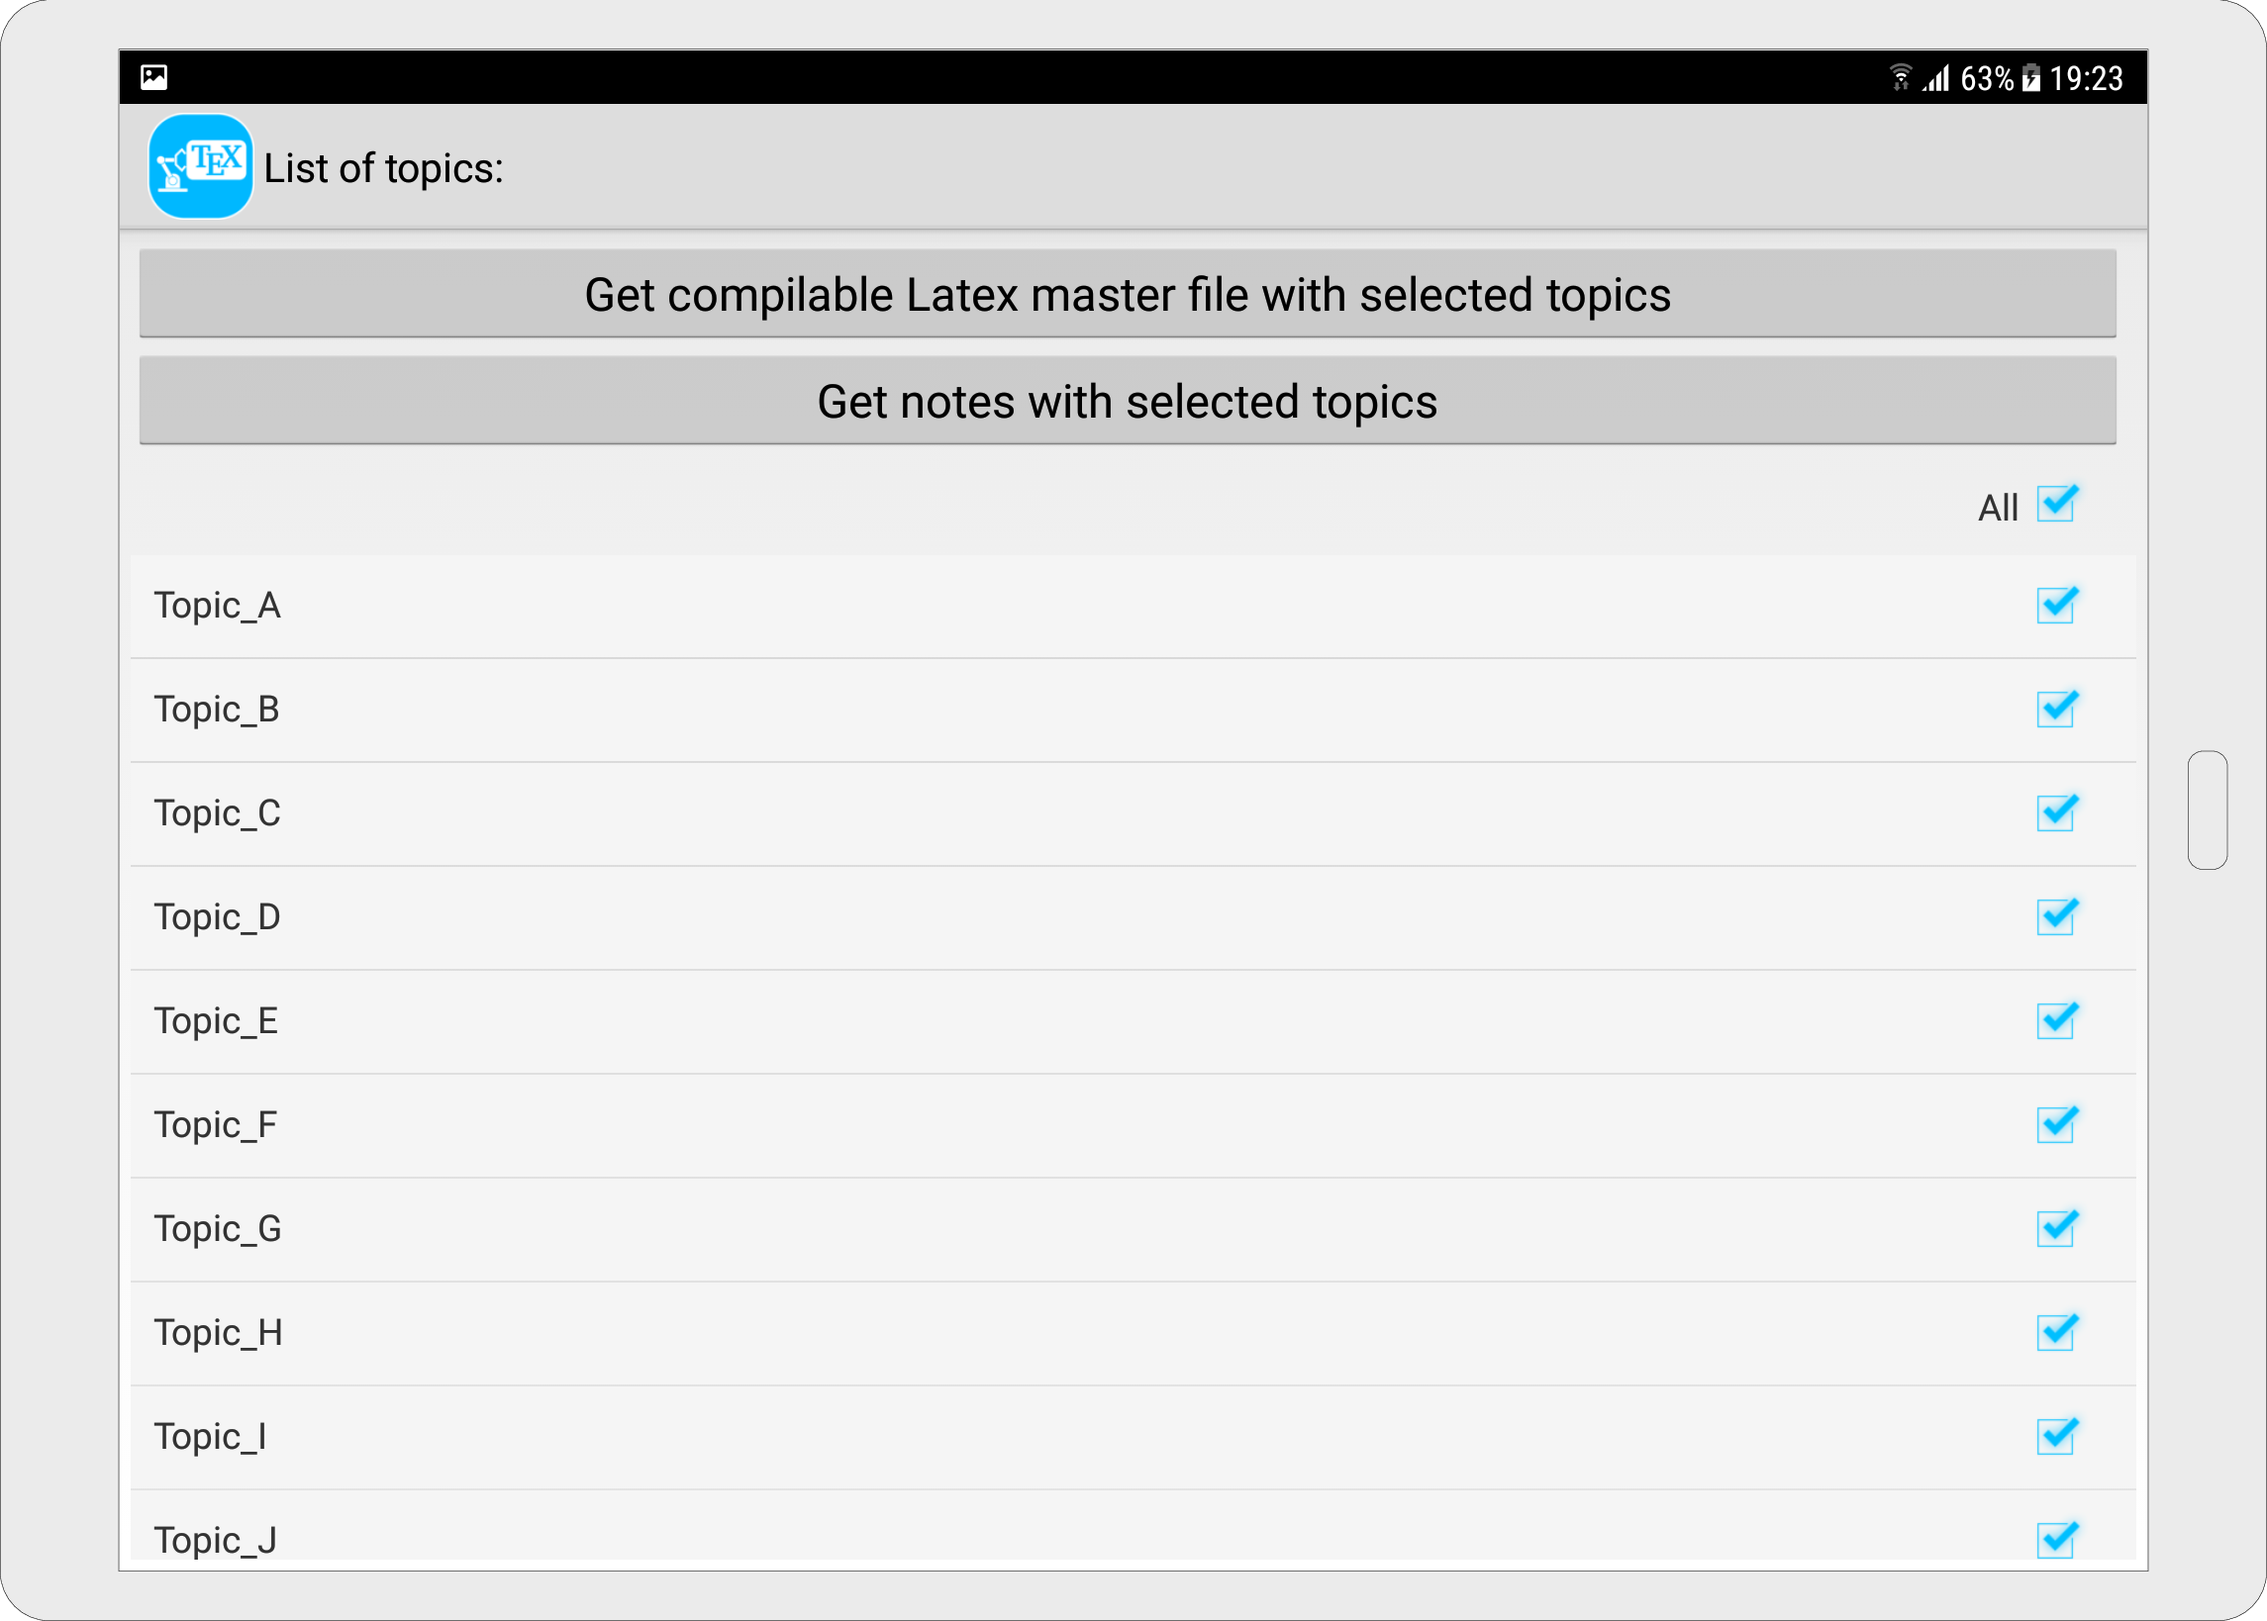
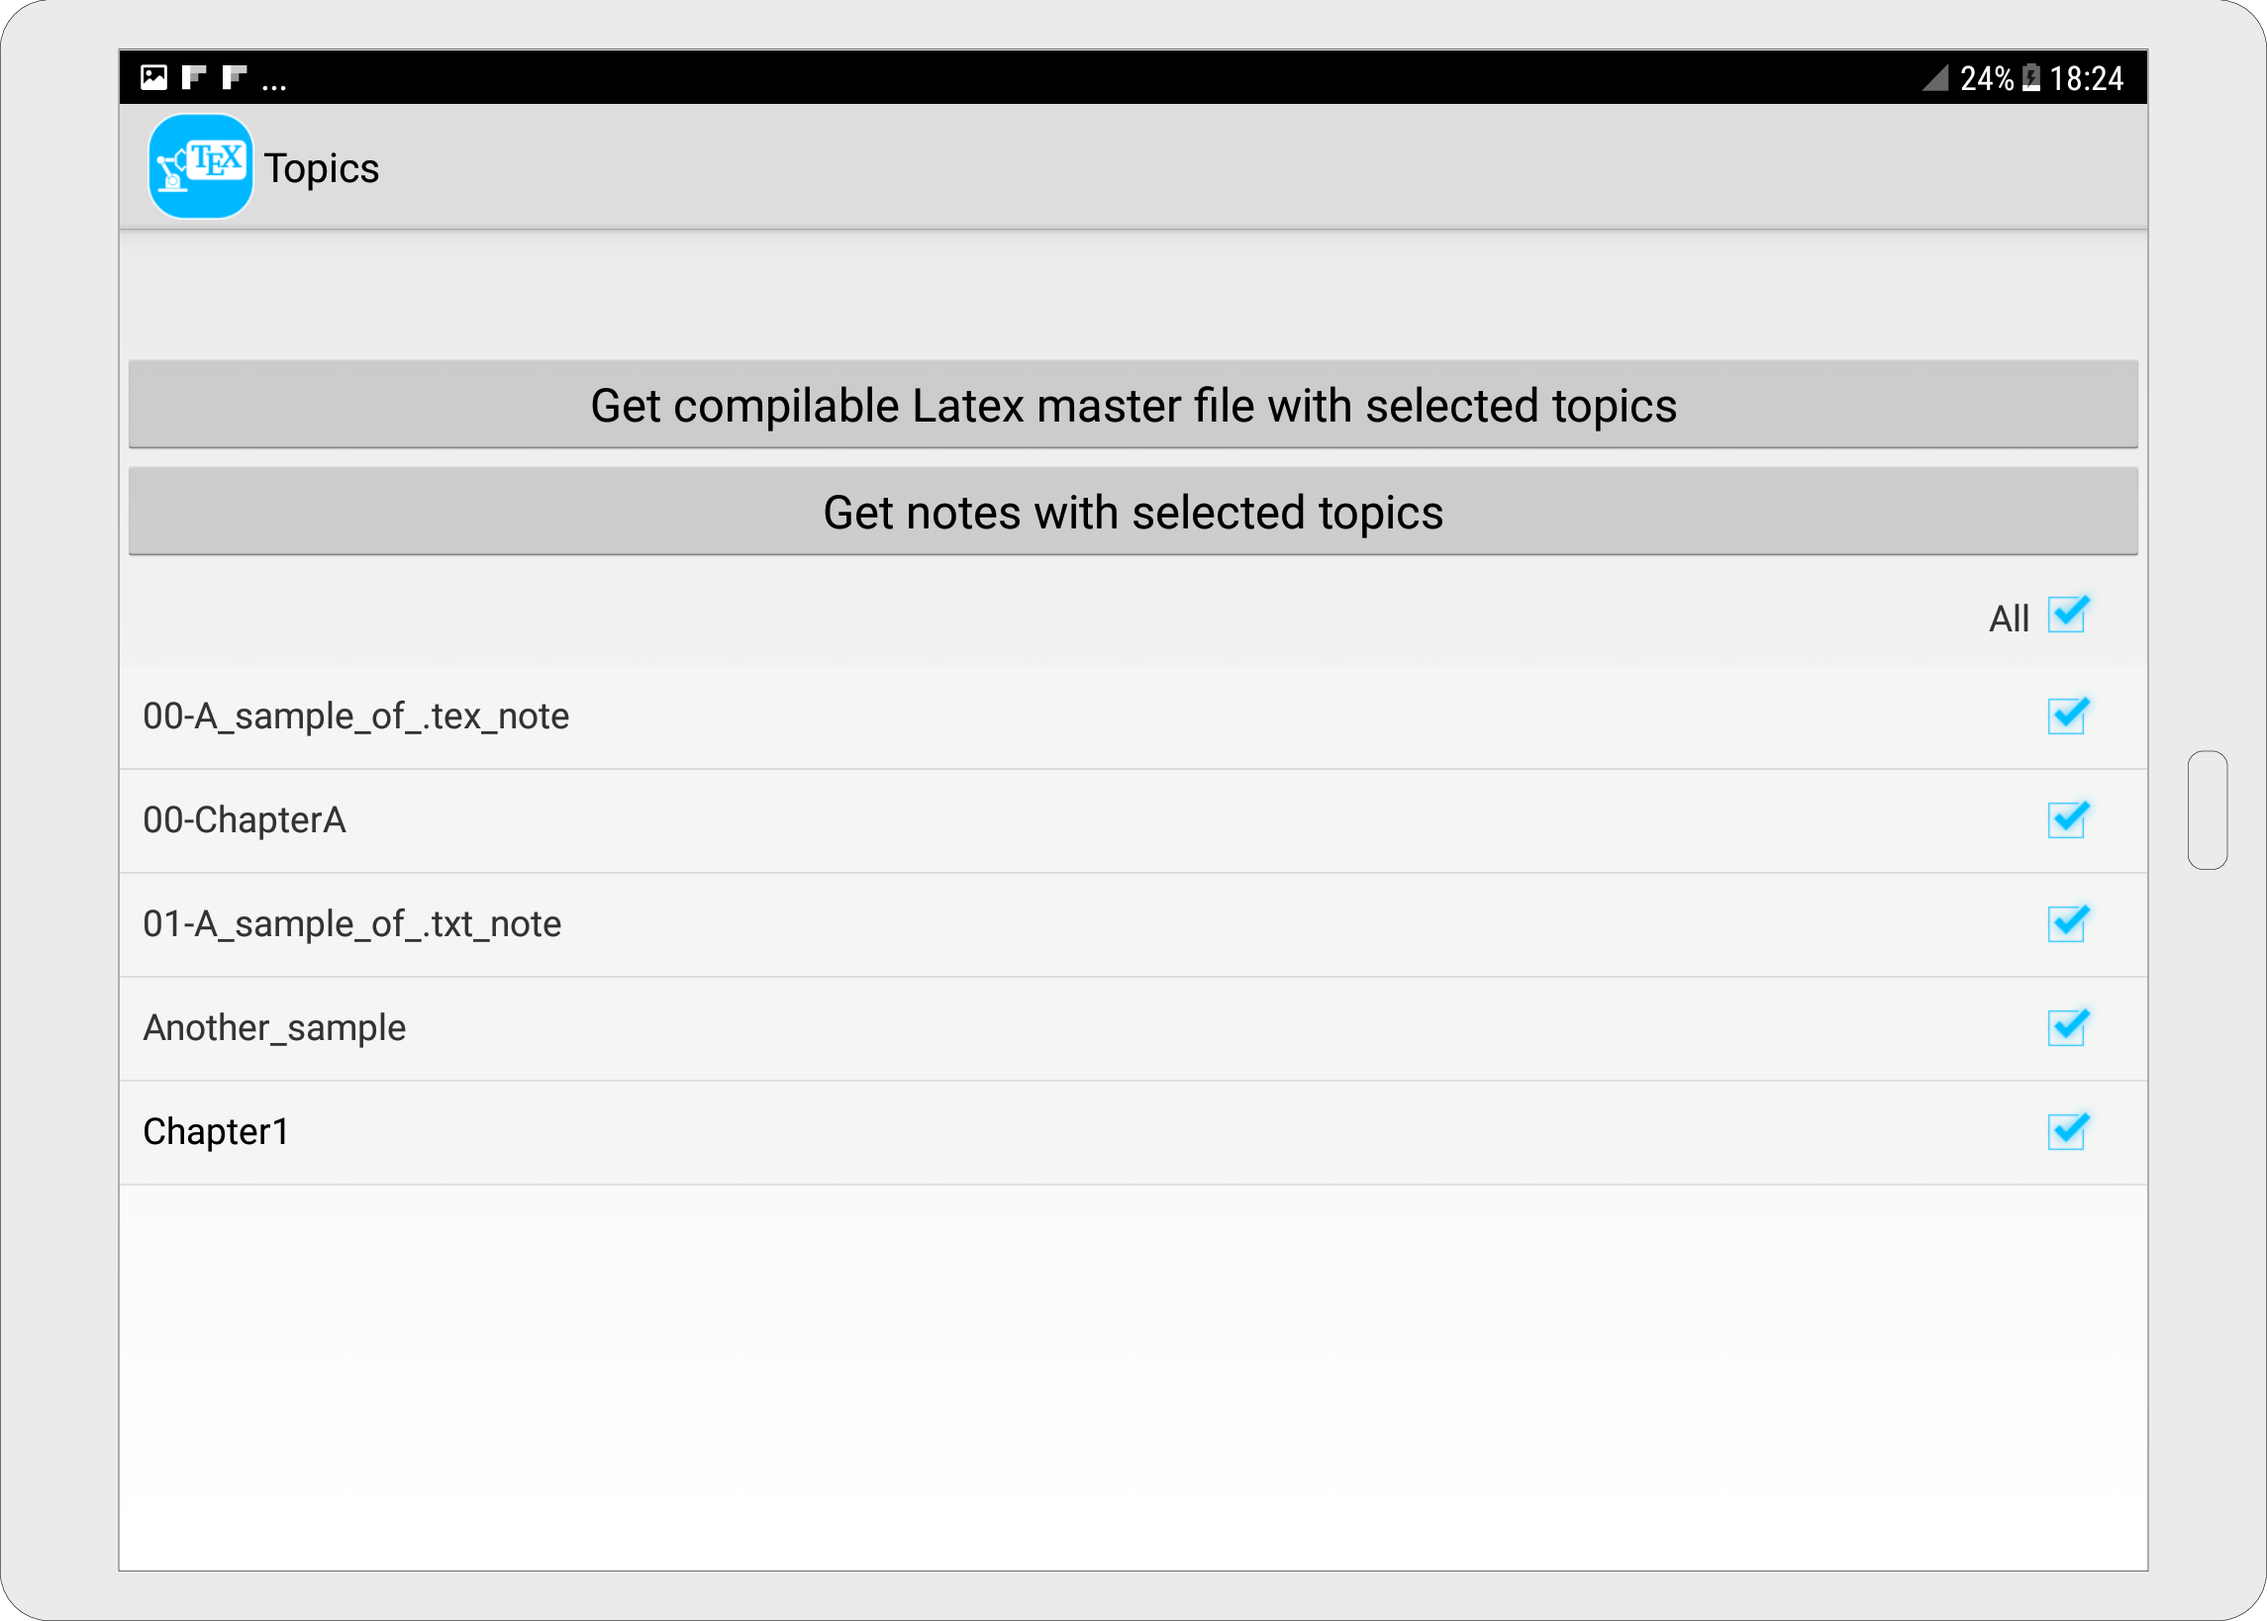
Updated index.html and screenshot

diff --git a/index.html b/index.html
@@ -31,76 +31,74 @@
       <!-- -------------------------------------------------------- -->
       <!-- -------------------------------------------------------- -->
 <!------------------------------------------------------------------------------------>      
-      <h2>Description</h2>
-      <p><strong>LaTeX Master File Creator</strong> is an <strong>Android App</strong> that allows to manage your .tex files and your plain text notes by choosing, through a simple UI, the items to include in an automatically generated LaTeX master file with a predefined style.</p>
+      <h1>Description</h1>
+      <p><strong>LaTeX Master File Creator</strong> is an <strong>Android App</strong> that allows to manage .tex files and plain text notes by choosing, through a simple UI, the items to include in an automatically generated LaTeX master file with a predefined style.</p> <p>Thus you can obtain a .pdf file, containing the selected items, by means of your preferred LaTeX App (with pdflatex) directly on your Android device.</p>
 <p> <a href='https://play.google.com/store/apps/details?id=com.ariang.android.txts2tex&pcampaignid=MKT-Other-global-all-co-prtnr-py-PartBadge-Mar2515-1'><img  alt='Get it on Google Play' src="./images/google-play-badge.png"/></a></p>
        
-     <h2>Main Activity</h2>   
-<p>From NotesList activity, as shown in fig.<a href="#x1-1011r1">1<!--tex4ht:ref: fig:7NotesList --></a>, you can start the other activities through the options menu: </p>
-     <ul class="itemize1">
-     <li class="itemize">1.Settings
-     </li>
-     <li class="itemize">2.Import notes
-     </li>
-     <li class="itemize">3.Get topics
-     </li>
-     <li class="itemize">4.New txt
-     </li>
-     <li class="itemize">5.New tex
-     </li>
-     <li class="itemize">6.Delete</li></ul>       
+     <h1>Main Activity</h1>   
+<p>From the main activity, as shown in fig.<a href="#x1-1011r1">1<!--tex4ht:ref: fig:7NotesList --></a>, you can start the other activities through the options menu.</p>  
 <figure>
   <a id="x1-1011r1">
   <img src="./images/Screenshot_7NotesList.png" alt="NotesList Activity">
-  <figcaption>Fig.1 NotesList Activity</figcaption>
+  <figcaption>Fig.1 Main Activity</figcaption>
   </a>
 </figure>  
 <!------------------------------------------------------------------------------------>      
    <h2>User Defined Settings</h2>
-   <p>By clicking on <code>1.Settings</code> you can modify the default Filename of LaTeX master file and the document properties (Title, Author, Subject and Keywords).</p>
+   <p>By clicking on <code>Settings</code> you can modify the default <code>Filename</code> of the LaTeX master file and its document properties (<code>Title</code>, <code>Author</code>, <code>Subject</code> and <code>Keywords</code>).</p>
 <!------------------------------------------------------------------------------------> 
    <h2>Import Notes</h2>
-   <p>By clicking on <code>2.Import notes</code> you can import .txt and/or .tex files from the input
-directory: <code>/sdcard/Txt2TexINPUT/</code>.</p>
+   <p>By clicking on <code>Import notes</code> you can import .txt and/or .tex files from the directory:</p>  
+   <code>/sdcard/Txt2TexINPUT/</code>
 <!------------------------------------------------------------------------------------>  
 <h2>Get Topics</h2>
-<p>From <code>3.Get Topics</code> you get the list of all topics, in which, as shown in fig.<a 
+<p>From <code>Get Topics</code> you get the list of all topics, in which, as shown in fig.<a 
 href="#x1-3001r4">2<!--tex4ht:ref: fig:IssueZeroList --></a>, you can select them and through the button <code>Get
-compilable LaTeX master file with selected topics</code> create the output directory
-<code>/sdcard/Txt2TexOUTPUT/YYYYMMdd_hhmmss/</code> with an automatically generated LaTeX master file (look at <a href="#myoutput">Outputs</a> for more details).
+compilable LaTeX master file with selected topics</code> create the output directory:</p> 
+<code>/sdcard/Txt2TexOUTPUT/FilenameYYYYMMdd_hhmmss/</code> 
+<p>with an automatically generated LaTeX master file (look at <a href="#myoutput">Outputs</a> for more details).
 <!--l. 207--><p>By using the button <code>Get notes with selected topics</code> you get the list of the files
 with the chosen topics.</p>   
 <figure>
    <a id="x1-3001r4">
    <img src="./images/Screenshot_3IssueZeroList.png" alt="List of topics">
-   <figcaption>Fig.2: List of topics</figcaption>
+   <figcaption>Fig.2: Topics</figcaption>
   </a>
 </figure> 
 <!------------------------------------------------------------------------------------> 
 <h2>Internal text editor</h2>
-<p>From the main activity NotesList you can also click one of the items to edit them with an internal text editor, and by clicking on <code>4.New txt</code> and <code>5.New tex</code> you can add new .txt and .tex notes. </p>
+<p>From the main activity you can also click one of the items to edit them with an internal text editor, and by clicking on <code>New txt</code> and <code>New tex</code> you can add new .txt and .tex notes. </p>
 <!------------------------------------------------------------------------------------>
 <h2>Delete</h2>
-<p>By clicking on <code>6.Delete</code> you can select the notes to delete from the application database.</p>
+<p>By clicking on <code>Delete</code> you can select the notes to delete from the application database.</p>
 <!------------------------------------------------------------------------------------> 
-<h2>Input</h2>
-<h3>Imported Notes</h3>
+<h1>Inputs</h1>
+<h2>Imported Notes</h2>
 <p>Imported notes should be in UTF-8 encoding.</p> 
-   <h3>Title with empty spaces </h3>
+<h2>Filenames of .txt notes </h2>
+<p>The .txt notes are included in the master file according to their filenames, for example <code>01-A_sample_of_.txt_note.txt</code>:</p> 
+ <pre><code>\chapter{A sample of .txt note}
+\VerbatimInput{\detokenize{./FILES/01-A_sample_of_.txt_note.txt}}</code> </pre>
+<h2>Filenames of .tex files </h2>
+<p>Even the .tex files are included in the master file according to their filenames, for example <code>00-A_sample_of_.tex_note.tex</code>:</p> 
+<pre><code>\chapter{A sample of .tex note}
+\input{\detokenize{./FILES/00-A_sample_of_.tex_note.tex}}</code> </pre>
+but if you want to put the title of the chapter within the .tex note, you have to put the string "Chapter" in the filename of the .tex note, for example <code>Chapter1.tex</code>:</p>  
+<code>\input{./FILES/Chapter1.tex}</code>
+<h2>Title with empty spaces </h2>
 <p>
-To obtain empty spaces in the title of a section in the LaTeX master file you have to put an underscore &#8220;_&#8221; in the
-filename of the note (e.g. <em>Example_of_a_Section_Title.txt</em>).  
+To obtain empty spaces in the title of a chapter in the LaTeX master file you have to put an underscore &#8220;_&#8221; in the
+filename of the note (e.g. <code>A_sample_of_.txt_note.txt</code>).  
 </p> 
-<h3>Alphabetical or user defined order of notes</h3>
+<h2>Alphabetical or user defined order of notes</h2>
 <p>
-By default the notes (.txt and/or .tex) are inserted in a compilable Latex master file according to alphabetical order, but you can add numeric indexes, followed by a minus sign &#8220-&#8221;, at the beginning of the filename to get a different order 
-(e.g. <em>01-Topic_Z.txt</em>).</p> 
-<h3>Inserting images in .tex notes</h3>
-<p>You can insert images in .tex notes from the directory
+By default the notes (.txt and/or .tex) are inserted in the master file according to alphabetical order, but you can add numeric indexes, followed by a minus sign &#8220-&#8221;, at the beginning of the filename to get a different order 
+(e.g. <code>01-A_sample_of_.txt_note.txt</code>, <code>00-ChapterA.tex</code>).</p> 
+<h2>Inserting images in .tex notes</h2>
+<p>You can insert images in .tex notes from the directory:</p> 
 <code>/sdcard/Txt2TexINPUT/IMAGES/</code>.
-</p> 
-<h2>Output</h2><a id="myoutput"></a>
-<p>The output directory <code>/sdcard/Txt2TexOUTPUT/YYYYMMdd_hhmmss/</code> (within the DeviceStorage) contains:
+<h1>Output</h1><a id="myoutput"></a>
+<p>The output directory <code>/sdcard/Txt2TexOUTPUT/FilenameYYYYMMdd_hhmmss/</code> (within the DeviceStorage) contains:
      <ul>
      <li>a LaTeX master file: <code>notes.tex</code>;
      </li>
@@ -110,10 +108,10 @@ By default the notes (.txt and/or .tex) are inserted in a compilable Latex maste
      </li>
      <li>a predefined style file: <code>defaultstyle.sty</code>.</li></ul>
 </p> 
-<h3>The default style file</h3>
+<h2>The default style file</h2>
 <p>
 In the current version you get a predefined style file  <code>defaultstyle.sty</code> in the output directory
-<code>/sdcard/Txt2TexOUTPUT/YYYYMMdd_hhmmss/</code>
+<code>/sdcard/Txt2TexOUTPUT/FilenameYYYYMMdd_hhmmss/</code>
 that can be modified with an external editor.  <br class="newline" /><br class="newline" />
 PS. You have to use an <strong><em>external LaTeX App</em></strong> to compile (with <strong><em>pdflatex</em></strong>) your LaTeX master file and generate a .pdf file as shown in fig.<a href="#x1-tocpdf">3<!--tex4ht:ref: fig:IssueZeroList --></a>
 </p> 
